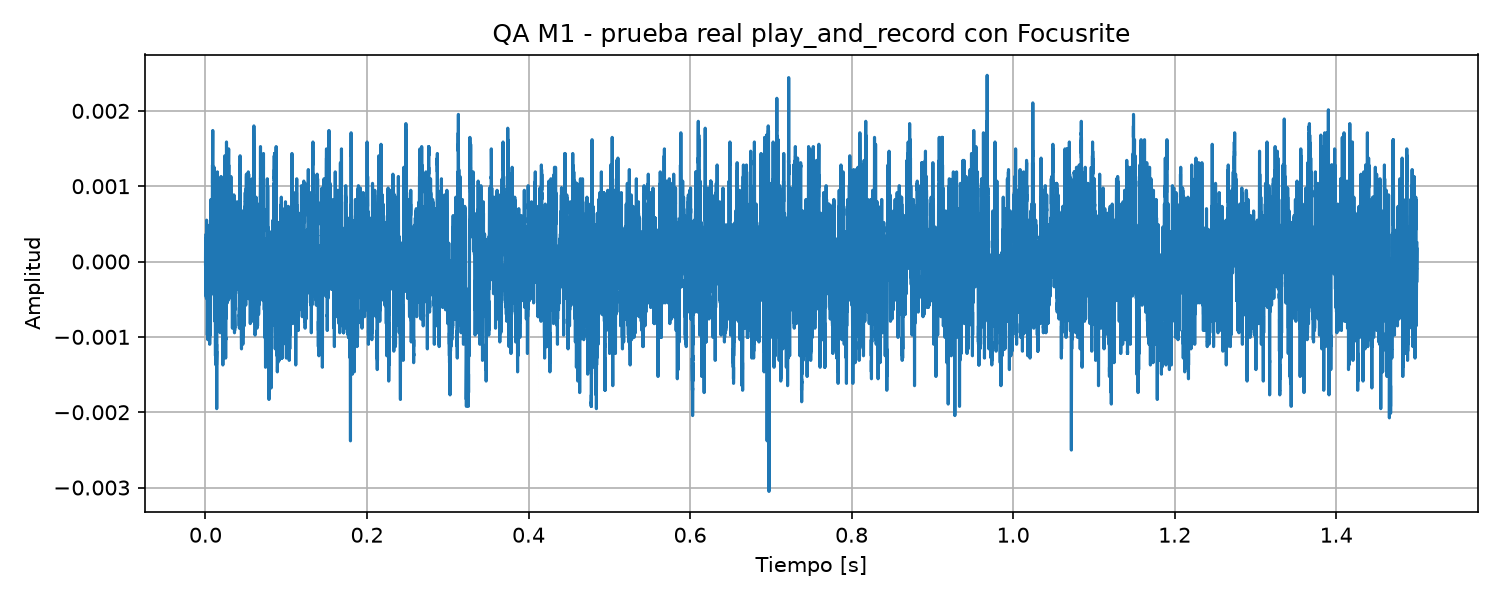
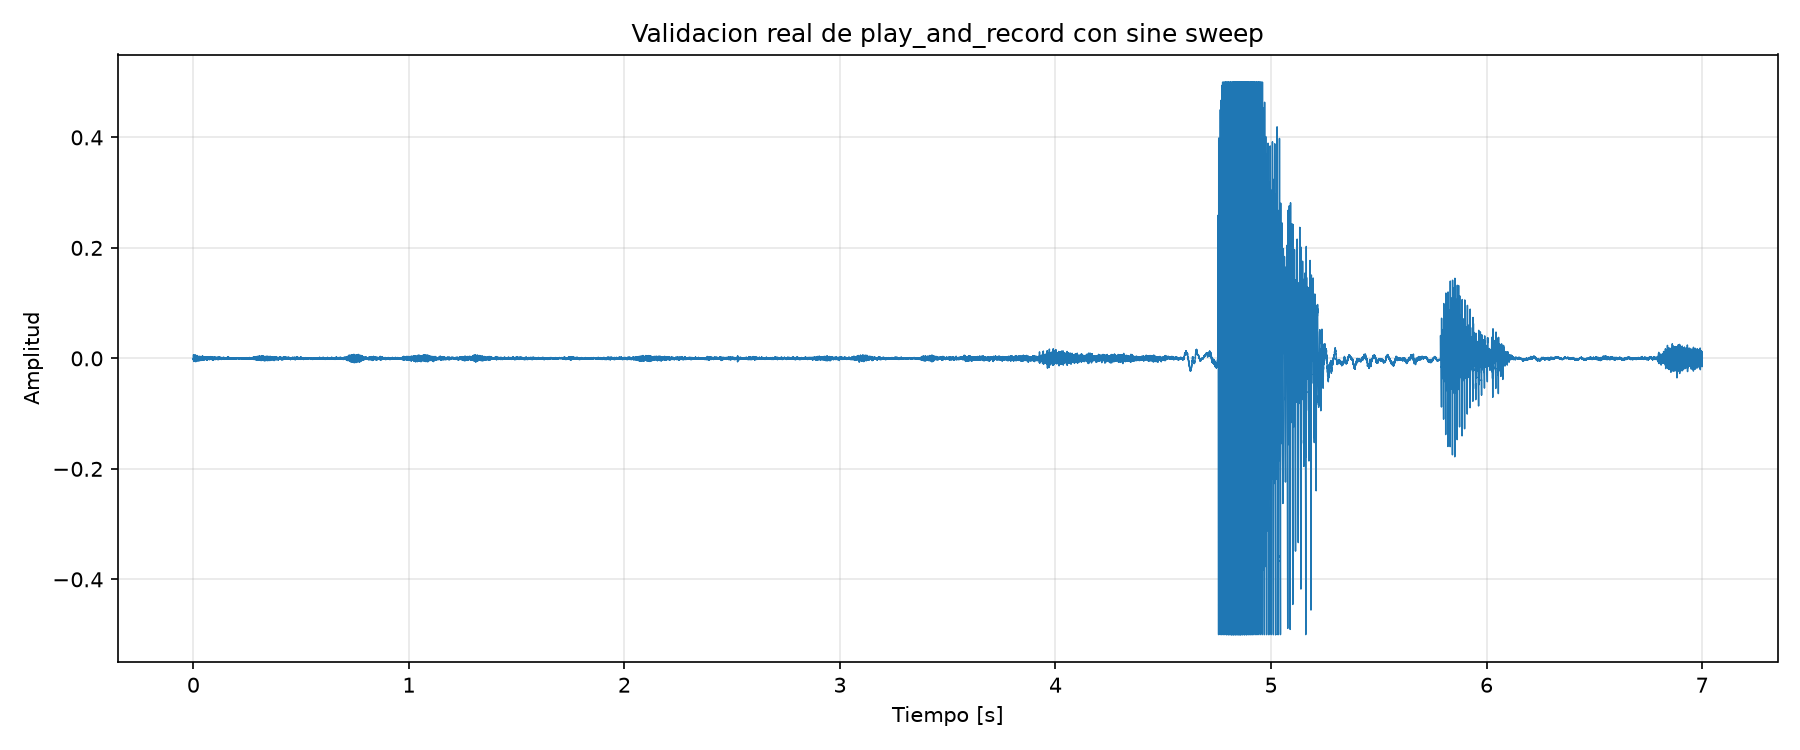
docs: actualizar validacion real de play_and_record

diff --git a/scripts/qa_play_and_record_real.py b/scripts/qa_play_and_record_real.py
@@ -1,0 +1,129 @@
+from pathlib import Path
+
+import matplotlib.pyplot as plt
+import numpy as np
+import sounddevice as sd
+import soundfile as sf
+
+from app.services.audio_io import play_and_record
+from app.services.sine_sweep import generate_sine_sweep_pair
+
+FS = 48000
+SWEEP_DURATION = 5.0
+RECORD_DURATION = 7.0
+INPUT_DEVICE = 1
+OUTPUT_DEVICE = 3
+SWEEP_LEVEL = 0.1
+
+OUTPUT_DIR = Path("docs/m1")
+WAV_PATH = OUTPUT_DIR / "qa_play_and_record_real.wav"
+TXT_PATH = OUTPUT_DIR / "qa_play_and_record_real.txt"
+PNG_PATH = OUTPUT_DIR / "qa_play_and_record_real.png"
+
+
+def main() -> None:
+    OUTPUT_DIR.mkdir(parents=True, exist_ok=True)
+
+    sd.default.device = (INPUT_DEVICE, OUTPUT_DEVICE)
+    sd.default.blocksize = 0
+
+    input_info = sd.query_devices(INPUT_DEVICE)
+    output_info = sd.query_devices(OUTPUT_DEVICE)
+
+    sd.check_input_settings(
+        device=INPUT_DEVICE,
+        channels=1,
+        samplerate=FS,
+    )
+    sd.check_output_settings(
+        device=OUTPUT_DEVICE,
+        channels=2,
+        samplerate=FS,
+    )
+
+    sweep, _ = generate_sine_sweep_pair(
+        SWEEP_DURATION,
+        20,
+        20000,
+        FS,
+    )
+
+    sweep = SWEEP_LEVEL * sweep
+
+    # Reproducir el mismo sweep por ambos canales de salida.
+    stereo_sweep = np.column_stack((sweep, sweep))
+
+    print("Configuracion de la prueba")
+    print("--------------------------")
+    print(f"Entrada: {input_info['name']}")
+    print(f"Salida: {output_info['name']}")
+    print(f"Frecuencia de muestreo: {FS} Hz")
+    print(f"Blocksize: {sd.default.blocksize}")
+    print(f"Duracion sweep: {SWEEP_DURATION} s")
+    print(f"Duracion grabacion: {RECORD_DURATION} s")
+    print(f"Nivel digital sweep: {SWEEP_LEVEL}")
+    print()
+    print("Reproduciendo sweep y grabando...")
+
+    recorded = play_and_record(
+        stereo_sweep,
+        FS,
+        RECORD_DURATION,
+    )
+
+    recorded = np.asarray(recorded, dtype=np.float64).squeeze()
+
+    peak = float(np.max(np.abs(recorded)))
+    rms = float(np.sqrt(np.mean(recorded**2)))
+
+    peak_dbfs = float(20 * np.log10(max(peak, 1e-12)))
+    rms_dbfs = float(20 * np.log10(max(rms, 1e-12)))
+
+    clipped_samples = int(np.count_nonzero(np.abs(recorded) >= 0.999))
+
+    sf.write(WAV_PATH, recorded, FS, subtype="PCM_24")
+
+    report = (
+        "Validacion real de play_and_record\n"
+        "===================================\n"
+        f"Entrada: {input_info['name']}\n"
+        f"Salida: {output_info['name']}\n"
+        f"Canales de entrada usados: 1\n"
+        f"Canales de salida usados: 2\n"
+        f"Frecuencia de muestreo: {FS} Hz\n"
+        f"Blocksize: {sd.default.blocksize} (automatico / PortAudio)\n"
+        f"Duracion sweep: {SWEEP_DURATION} s\n"
+        f"Duracion grabacion: {RECORD_DURATION} s\n"
+        f"Pre-roll: 0.5 s\n"
+        f"Nivel digital sweep: {SWEEP_LEVEL}\n"
+        f"Muestras grabadas: {len(recorded)}\n"
+        f"Pico: {peak:.9f}\n"
+        f"Pico: {peak_dbfs:.2f} dBFS\n"
+        f"RMS: {rms:.9f}\n"
+        f"RMS: {rms_dbfs:.2f} dBFS\n"
+        f"Muestras con clipping: {clipped_samples}\n"
+    )
+
+    TXT_PATH.write_text(report, encoding="utf-8")
+
+    t = np.arange(len(recorded)) / FS
+
+    plt.figure(figsize=(12, 5))
+    plt.plot(t, recorded, linewidth=0.7)
+    plt.xlabel("Tiempo [s]")
+    plt.ylabel("Amplitud")
+    plt.title("Validacion real de play_and_record con sine sweep")
+    plt.grid(True, alpha=0.3)
+    plt.tight_layout()
+    plt.savefig(PNG_PATH, dpi=150)
+    plt.close()
+
+    print()
+    print(report)
+    print(f"WAV guardado en: {WAV_PATH}")
+    print(f"Reporte guardado en: {TXT_PATH}")
+    print(f"Grafico guardado en: {PNG_PATH}")
+
+
+if __name__ == "__main__":
+    main()

diff --git a/docs/m1/evidencia.md b/docs/m1/evidencia.md
@@ -51,31 +51,48 @@ Los tests automáticos de M1 requieren una relación mínima de **60 dB**, por l
 
 ## 4. Validación real de reproducción y grabación
 
-La función `play_and_record()` también fue validada utilizando hardware de audio real.
+La función `play_and_record()` fue validada utilizando hardware de audio real y un sine sweep logarítmico reproducido y grabado mediante una interfaz Focusrite.
 
-Equipamiento utilizado:
+### Configuración de audio
 
-- Interfaz de audio: **Focusrite**
-- Entrada: **Focusrite Analogue 1 + 2**
-- Salida: **Focusrite Altavoces**
+- Interfaz de audio: **Focusrite USB Audio**
+- Entrada: **Analogue 1 + 2 (Focusrite)**, utilizando el **canal 1**
+- Salida: **Altavoces (Focusrite)**, utilizando **2 canales**
 - Frecuencia de muestreo: **48.000 Hz**
+- Blocksize: **0 (automático / PortAudio)**
+- Pre-roll: **0,5 s**
 
-Prueba realizada:
+### Señal utilizada
 
-- Duración de la señal reproducida: **0,5 s**
-- Duración solicitada de grabación: **1,5 s**
-- Muestras grabadas: **72.000**
-- Valor máximo registrado: **0,0030517578125**
-- RMS registrado: **0,000604360131546855**
+- Tipo: **sine sweep logarítmico**
+- Frecuencia inicial: **20 Hz**
+- Frecuencia final: **20.000 Hz**
+- Duración del sweep: **5 s**
+- Nivel digital aplicado al sweep: **0,1**
+- Duración total de grabación: **7 s**
 
-La prueba confirmó que la función puede reproducir una señal mediante la interfaz física y mantener la grabación durante un tiempo superior al de la señal reproducida.
+### Resultado
+
+- Muestras grabadas: **336.000**
+- Pico registrado: **0,500061035**
+- Pico registrado: **-6,02 dBFS**
+- RMS registrado: **0,074422577**
+- RMS registrado: **-22,57 dBFS**
+- Muestras con clipping: **0**
+
+La señal grabada presenta un nivel claramente útil y mantiene margen respecto del clipping. La medición confirma el funcionamiento real de `play_and_record()` utilizando la interfaz física, incluyendo el pre-roll de 0,5 s agregado antes de la reproducción.
 
 ![Validación real de play_and_record](qa_play_and_record_real.png)
 
-Los resultados numéricos de esta prueba se encuentran también en:
+Los resultados numéricos de esta prueba se encuentran en:
 
 - `docs/m1/qa_play_and_record_real.txt`
-- `docs/m1/qa_validacion_final_m1.txt`
+
+La prueba puede repetirse mediante:
+
+```bash
+uv run python -m scripts.qa_play_and_record_real
+```
 
 ---
 

diff --git a/README.md b/README.md
@@ -403,9 +403,16 @@ uv run pytest -rxX                             # listar xfailed / xpassed
 uv run pytest --cov=app                        # con cobertura
 ```
 
-`play_and_record` se testea con un *mock* de `sounddevice`, por lo que el CI no necesita
-placa de audio. Para probarla de verdad, corran la funcion localmente con un parlante y un
-microfono y documenten la configuracion (dispositivo, canales, fs, buffer size).
+`play_and_record()` se testea automáticamente con un *mock* de `sounddevice`, por lo que
+el CI no requiere hardware de audio. Además, se realizó una validación con hardware real
+utilizando una interfaz Focusrite: entrada Analogue 1 + 2 por el canal 1, salida Altavoces
+por 2 canales, `fs = 48000 Hz`, `blocksize = 0` (automático / PortAudio) y un pre-roll de
+0,5 s.
+
+La prueba utilizó un sine sweep logarítmico de 20 Hz a 20 kHz durante 5 s. La grabación
+obtuvo un pico de -6,02 dBFS, un RMS de -22,57 dBFS y 0 muestras con clipping.
+
+La evidencia completa se encuentra en [`docs/m1/evidencia.md`](docs/m1/evidencia.md).
 
 ## Linter y formato
 
